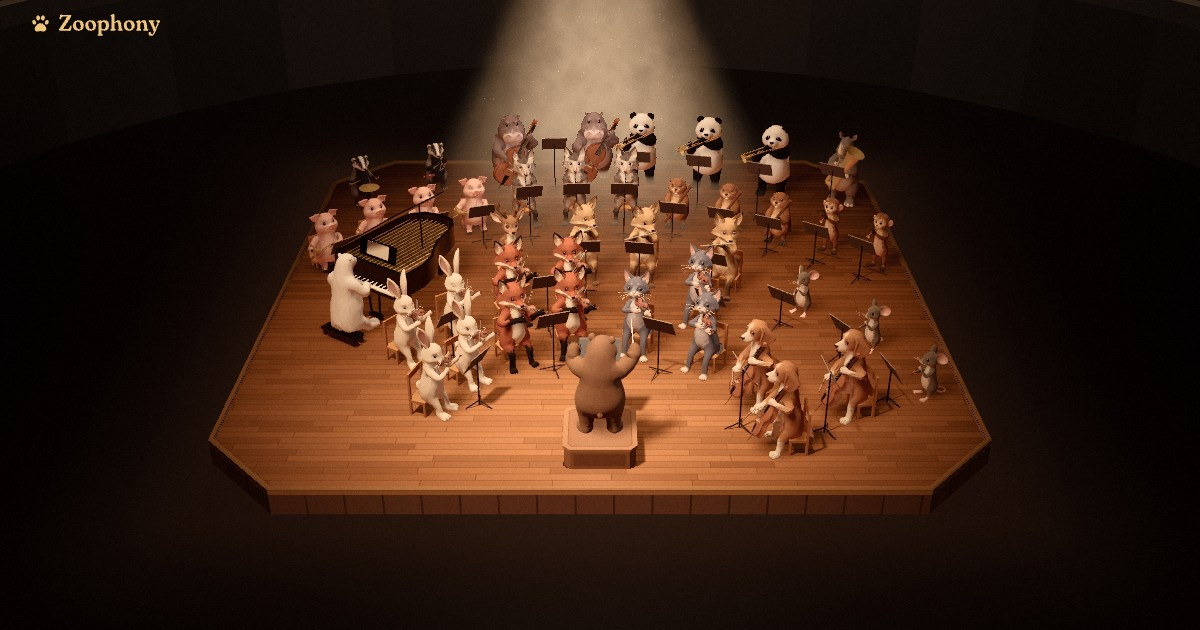
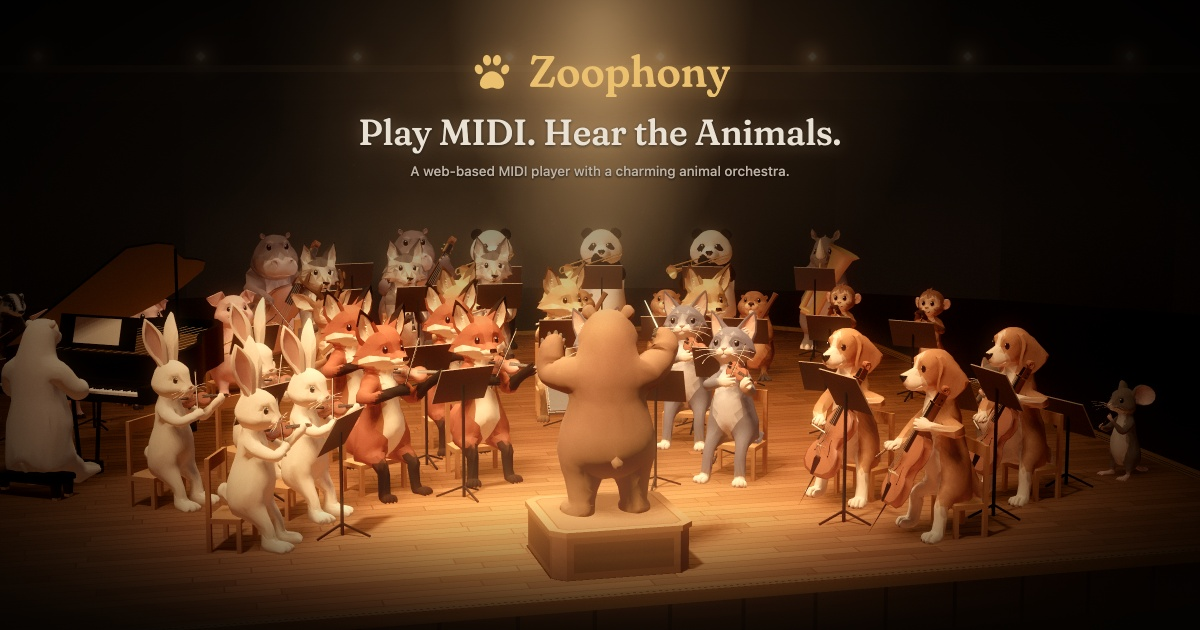
feat(app): show the share image from behind the conductor with the title
pnpm share-image wrote public/share.jpg: 1200 x 630, 197,440 B. The alt
text of SHARE_IMAGE now names the logo, the title, and the view from
behind the bear. The longer alt text adds 43 B to the first download.

diff --git a/src/app/page-title.ts b/src/app/page-title.ts
@@ -33,7 +33,7 @@ export const SHARE_IMAGE: ShareImage = {
   path: 'share.jpg',
   width: 1200,
   height: 630,
-  alt: 'A bear conducts an orchestra of low-poly animals on a wooden stage in a dark concert hall.',
+  alt: 'The Zoophony logo and the title "Play MIDI. Hear the Animals." above an orchestra of low-poly animals on a wooden stage. A bear conducts them, and the view is from behind the bear.',
 };
 
 /** The description of the start page for search results and shares, at most 155 characters. */
